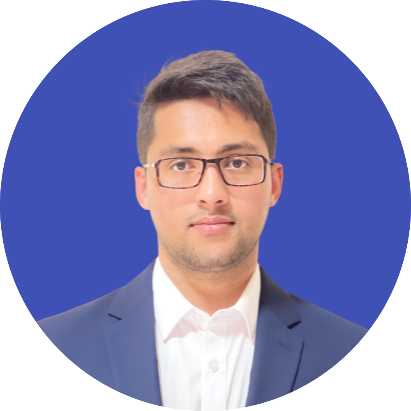
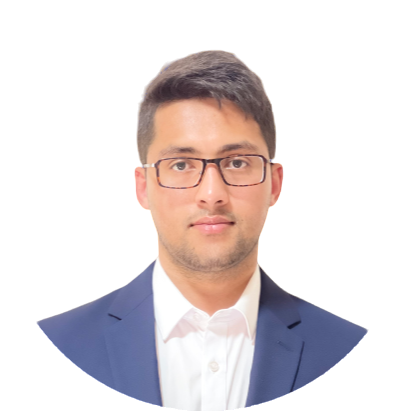
new project added and image fixed

diff --git a/src/data.js b/src/data.js
@@ -9,11 +9,11 @@ export const products = [
   },
   {
     id: 2,
-    img: "https://images.unsplash.com/photo-1644329843491-99edfc83de04?ixlib=rb-1.2.1&ixid=MnwxMjA3fDB8MHxwaG90by1wYWdlfHx8fGVufDB8fHx8&auto=format&fit=crop&w=1171&q=80",
-    link: "https://taskappfrontend.onrender.com",
-    title: "Task App",
-    desc: "Task app allows users to add, delete and switch task.",
-    gitLink: "",
+    img: "https://images.unsplash.com/photo-1590540178973-02381b349071?ixlib=rb-4.0.3&ixid=MnwxMjA3fDB8MHxwaG90by1wYWdlfHx8fGVufDB8fHx8&auto=format&fit=crop&w=1171&q=80",
+    link: "https://menshairdresser.onrender.com",
+    title: "Hair Dresser Website",
+    desc: "Frontend for hair dressing business. Styled component, Email JS and deployed on Render",
+    gitLink: "https://github.com/Anup4944/hair-dresser-project",
   },
   {
     id: 3,

diff --git a/src/components/product/product.css b/src/components/product/product.css
@@ -32,7 +32,7 @@
 .link {
   position: relative;
   width: 100%;
-  height: 100%;
+  height: 90%;
   display: flex;
   align-items: center;
   justify-content: center;
